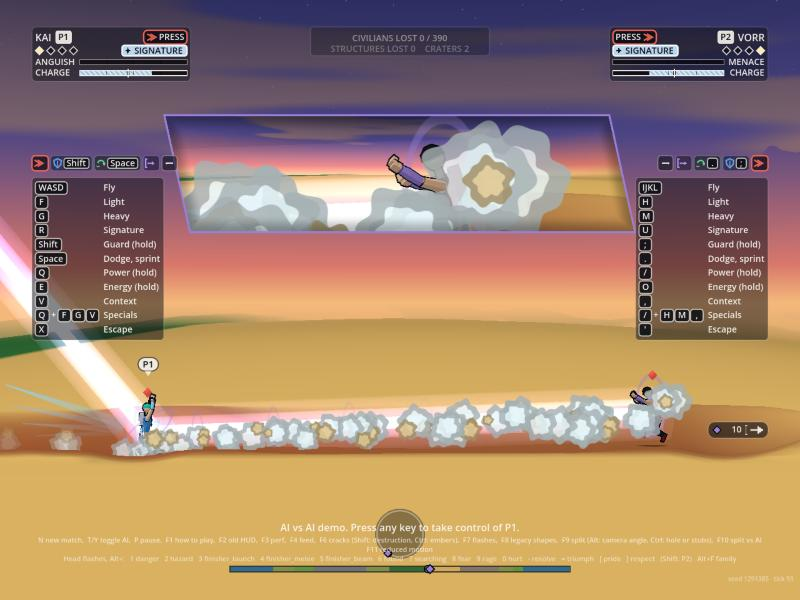
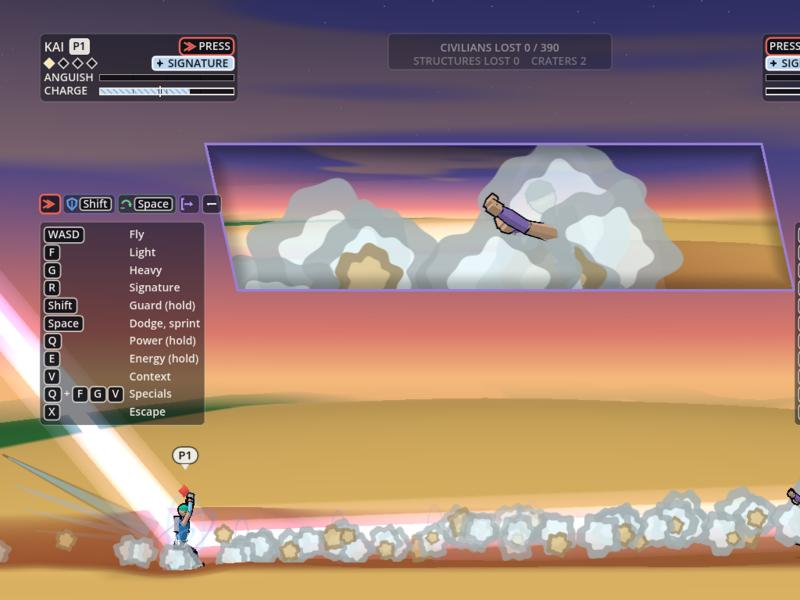
VFX: beam plays drawn over the ground dust; dust thinned near a play

diff --git a/docs/vfx/shots-plan.md b/docs/vfx/shots-plan.md
@@ -162,7 +162,7 @@ Slice 8 of the agency work (docs/director/agency-slice-8.md) made a beam take 20
 
 Pictures (web build, a scratch staging hook, the sim's own `fireBeam`, `_swat` and `_split`): ![](img/bp-cross.jpg) ![](img/bp-swat.jpg) ![](img/bp-split.jpg) ![](img/bp-walk.jpg) ![](img/bp-wade.jpg) ![](img/bp-late.jpg)
 
-Note on the pictures: the dust along the whole beam is the sim's own carving (Rendering's and the blast debris), not these plays; the plays are the heads, rings, wedges and blades at the ends. In the swat and split pictures the old beam's scorch is still on the ground; the swatted beam leaves the defender at the upper left.
+Making the plays win over the ground dust (the EP's follow-up): the dust along the beam is my own earth dust (earth.gd `on_dust`, a `dust` event from the sim), so it is thinned by my code and not Rendering's carving. Three things: (1) the plays are drawn 30 units of depth in front of the dust (`PLAY_LIFT`, the puffs are put up to about z 26); (2) when a swat, split, cut or answer is made, the dust puffs already in the pool within 450 units are let go in a fifth of a second (`VfxDebris.thin_puffs`), and new dust within 700 units for 50 ticks is thinned to a fifth (`VfxBeamPlay.calm_at`, a keep multiplier in `on_dust`); (3) the swat's slash and the split's forks have a dark backing wedge, and the forks are wider with a white core. Pictures of the ground beam, the plays' tick plus 4 to 5 ticks: the swat shows the fan of wedges at the defender and the dust cleared round him; the split shows the two lilac forks leaving him through the pink beam. The dust further along the beam, outside the 450 units, is still there on purpose (it is the beam's own scorch). `effects_check.gd` has cases for `thin_puffs` and `calm_at`.
 
 `render/core/beam_view.gd`: no patch needed. Beams that the swat and the split add to `S.beams` are drawn by it as any beam (confirmed in the swat and split pictures: the second beam is drawn, at its own angle).
 
